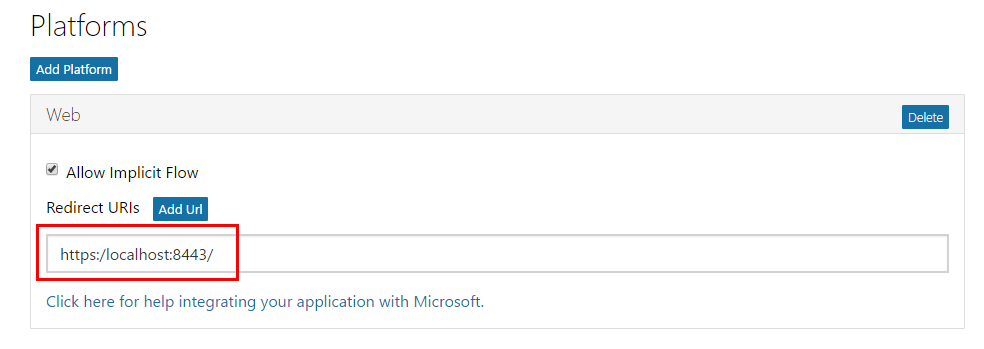
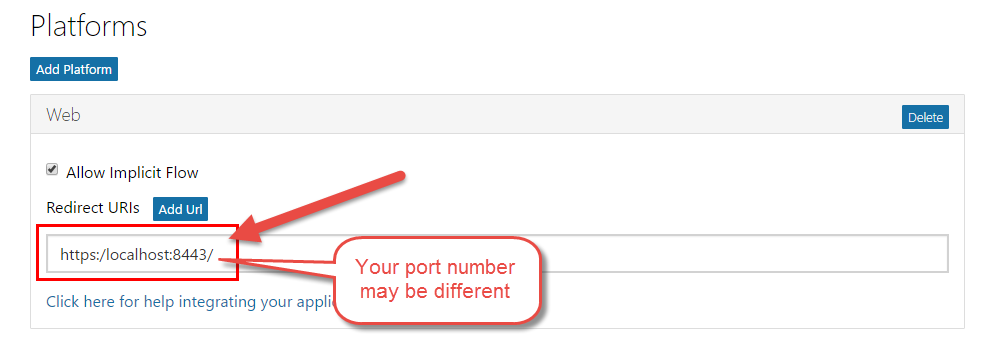
Updates to readmes and images. Udpate config with keys

Changed region(s): [[0.2134, 0.4871, 0.5793, 0.9742]]

diff --git a/HOL/dotnet/03-azuread-office365/README.md b/HOL/dotnet/03-azuread-office365/README.md
@@ -26,7 +26,21 @@ In this hands-on lab, you will learn how to:
 * Deployed the starter ARM Template [HOL 1](../developer-environment)
 * Completion of the first [modern-cloud-apps lab](../modern-cloud-apps) 
 
-> Note: If you did not complete the previous labs, the project in the start folder is cumulative.
+> **Note**: If you did not complete the previous labs, the project in the start folder is cumulative.
+
+
+> If you are starting from HOL 2 and not from the start folder, add the following keys to Web.config
+
+```xml
+    <add key="AAD_APP_ID" value="APPID" />
+    <add key="AAD_APP_SECRET" value="SECRET" />
+    <add key="AAD_APP_REDIRECTURI" value="SITE URL" />
+    <add key="AAD_INSTANCE" value="https://login.microsoftonline.com/{0}/{1}" />
+    <add key="AAD_AUTHORITY" value="https://login.microsoftonline.com/common/" />
+    <add key="AAD_LOGOUT_AUTHORITY" value="https://login.microsoftonline.com/common/oauth2/logout?post_logout_redirect_uri=" />
+    <add key="AAD_GRAPH_SCOPES" value="openid email profile offline_access Mail.ReadWrite Mail.Send User.Read User.ReadBasic.All" />
+    <add key="GRAPH_API_URL" value="https://graph.microsoft.com" />
+```
 
 ## Exercises
 
@@ -39,6 +53,20 @@ This hands-on-lab has the following exercises:
 ### Exercise 1: Register the application
 
 AzureAD can handle authentication for web applications. First we will create a new application in our AzureAD directory, and then we will extend our application code to work with an authentication flow. 
+
+1.  Open the Visual Studio project file from the `start` folder
+
+    ![image](./media/image-011.png)
+    
+1. Build the project and press F5 to restore the nuget packages and start IISExpress. This will create the web application with the dynamic port.
+
+1. Stop debugging. Right-click on the project and select `properties`
+
+    ![image](./media/image-012.png)
+
+    Note the website URL and port, you will need this later.
+
+    ![image](./media/image-024.png)
 
 1. Navigate in a browser to [https://apps.dev.microsoft.com](https://apps.dev.microsoft.com), click the button to **Register your app**, and login with your Azure credentials (Work or school Account).
 
@@ -74,33 +102,13 @@ AzureAD can handle authentication for web applications. First we will create a n
 
     ![image](./media/image-009.png)
 
-1. After AzureAD handles the authentication, it needs a location to redirect the user. For testing locally, we'll use the local IISExpress web site `http://localhost:8443` as the **Redirect URI** and set the URL as an app setting variable named `AAD_RETURN_URL`.This URL may need to be updated to the IISExpress dynamic port that is generated while debugging. Steps to update this are provided later in the lab.  
+1. After AzureAD handles the authentication, it needs a location to redirect the user. For testing locally, we'll use the local IISExpress web site `http://localhost:[YOUR LOCAL DYNAMIC PORT]/` as the **Redirect URI** and set the URL as an app setting variable named `AAD_RETURN_URL`. This URL may need to be updated to the IISExpress dynamic port that is generated while debugging. Steps to update this are provided later in the lab.  
 
     ![image](./media/image-010.png)
 
 1. Click the **Save** button on the bottom of the screen.
 
     ![image](./media/image-017.png)  
-
-1. Open the Visual Studio project file from the `start` folder
-
-    ![image](./media/image-011.png)
-
-1. Build the project and press F5 to restore the nuget packages and start IISExpress. This will create the web application with the dynamic port.
-
-1. Stop debugging. Right-click on the project and select `properties`
-
-    ![image](./media/image-012.png)
-    
-1. Go to the Web tab and take note of the IISExpress dynamic port. Update the URL to HTTPS and click save.
-
-    ![image](./media/image-013.png)
-
-1. You should receive 2 prompts confirming the update.
-
-    ![image](./media/image-014.png)
-
-    ![image](./media/image-015.png)
 
 1. Open the web.config and update the settings with the values from the app registration screen:
 
@@ -535,12 +543,13 @@ AzureAD can handle authentication for web applications. First we will create a n
 
     ```
 1. Compile and hit F5 to start debuggging. 
-    >If the main page of the application doesn't load using HTTPS, there are three steps to perform:
+    > If the main page of the application doesn't load using HTTPS, there are three steps to perform:
     > 1. go to the control panel on your machine, programs and features, find `IIS 10.0 Express`.  Right click on it, and choose `repair`.  
     > 1. in Visual Studio, click on the DevCamp.WebApp project in the solution explorer.  In the properties window at the bottom, ensure that `SSL Enabled` is True.  Also make note of the URL and SSL URL: 
     >
     >       ![image](./media/2016-11-14_16-31-07.png)
     > 1. Right-click on the DevCamp.WebApp project in the solution explorer and choose `Properties`.  This should open the properties page in the middle window of Visual Studio.  In the left hand list of pages choose `Web`, and ensure that the Project Url in the center is the SSL URL from above.  Make sure your browsers are closed, then re-run your application.
+    
 1. When you login for the first time, you will be prompted to allow permission for the app to access your data. Click Accept
 
     ![image](./media/image-022.png)
